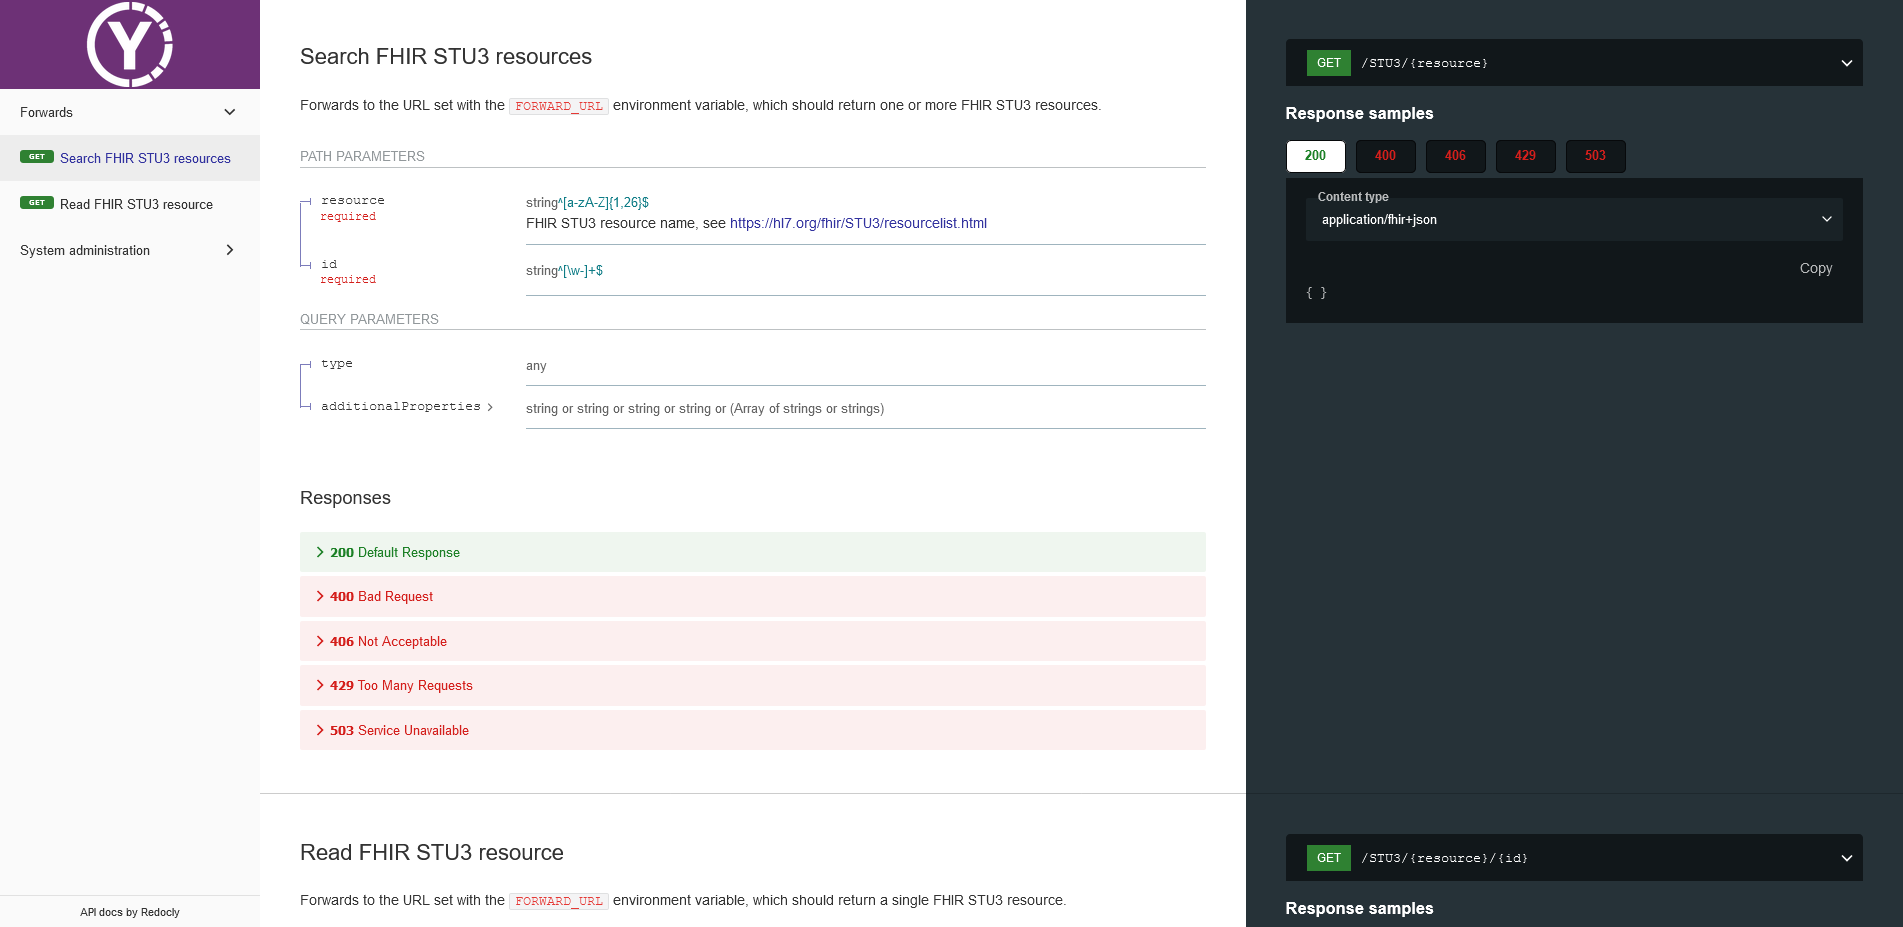
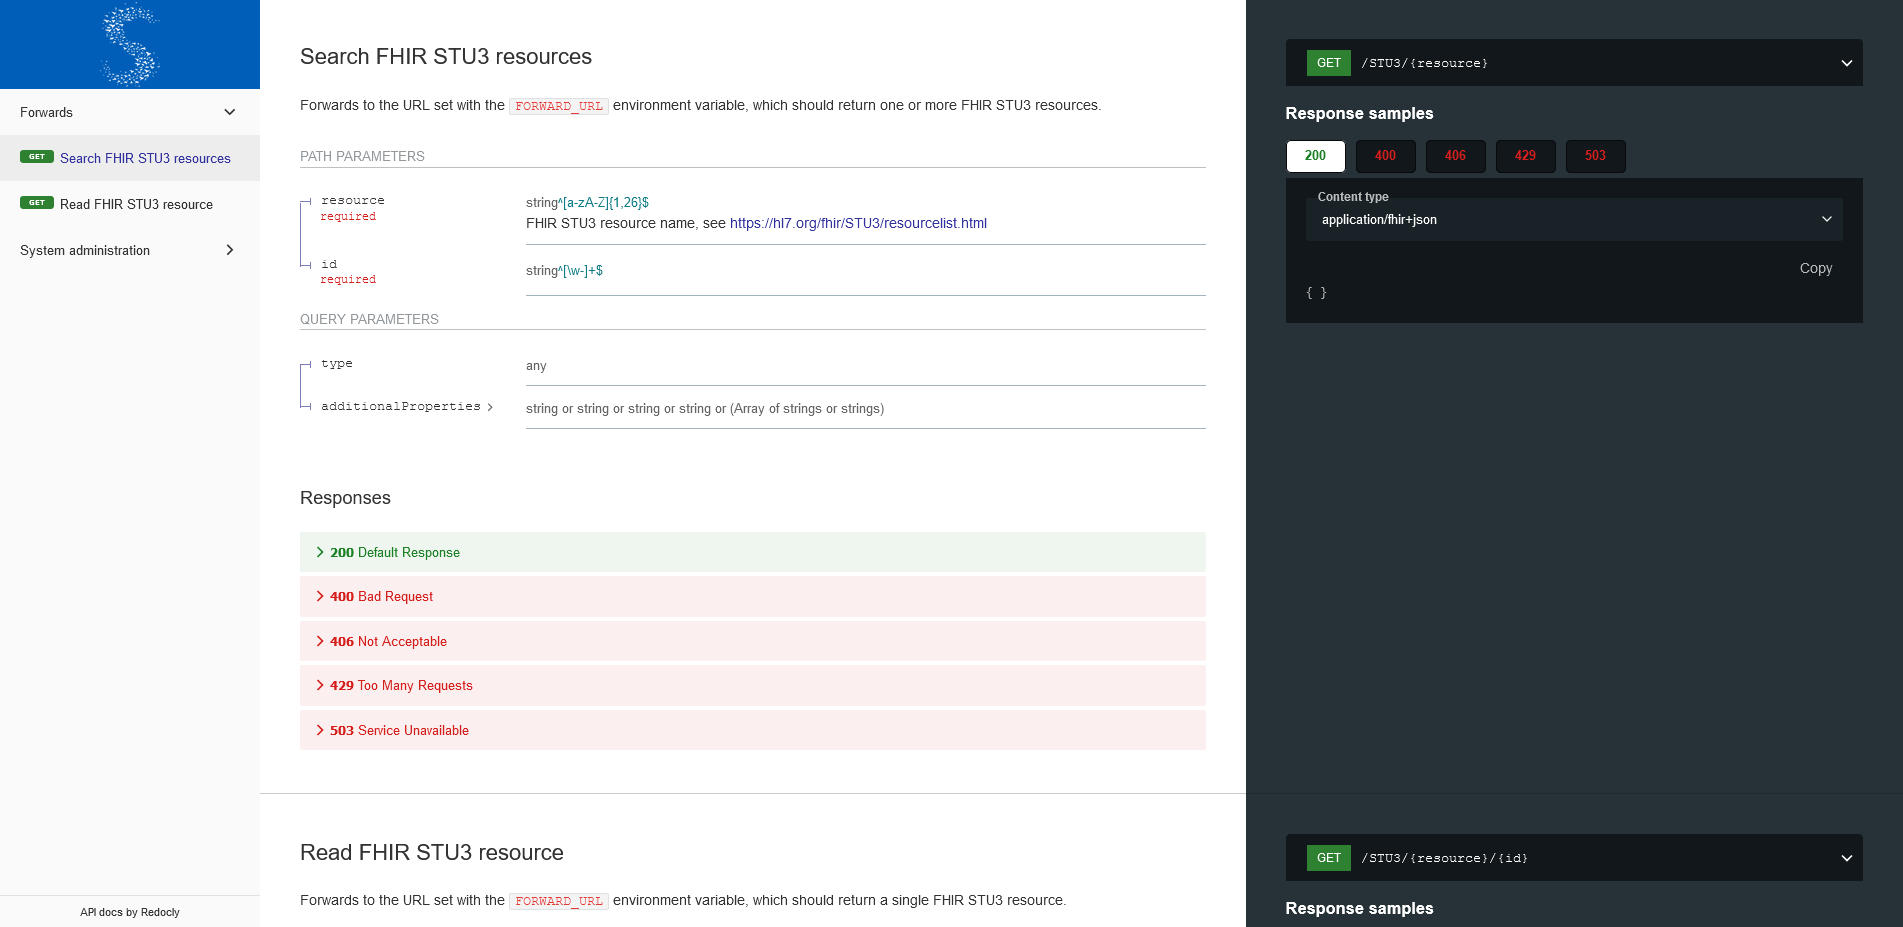
chore: replace ydh nhsft branding and links with somerset nhsft (#1062)
* test: replace ydh and sft domains

* chore: replace ydh nhsft branding and links with somerset nhsft

Changed region(s): [[0.0, 0.0, 0.155, 0.1208]]

diff --git a/src/server.test.js b/src/server.test.js
@@ -87,15 +87,15 @@ const expResHeaders4xxErrors = {
 };
 
 describe("Server deployment", () => {
-	const invalidIssuerUri = "https://invalid-issuer.ydh.nhs.uk";
-	const validIssuerUri = "https://valid-issuer.ydh.nhs.uk";
+	const invalidIssuerUri = "https://invalid-issuer.somersetft.nhs.uk";
+	const validIssuerUri = "https://valid-issuer.somersetft.nhs.uk";
 	let mockJwksServerOne;
 	let mockJwksServerTwo;
 	let token;
 
 	beforeAll(() => {
 		Object.assign(process.env, {
-			FORWARD_URL: "http://unsecured-server.ydh.nhs.uk",
+			FORWARD_URL: "http://unsecured-server.somersetft.nhs.uk",
 		});
 
 		nock.disableNetConnect();
@@ -104,11 +104,11 @@ describe("Server deployment", () => {
 		nock(validIssuerUri)
 			.get("/.well-known/openid-configuration")
 			.reply(200, {
-				jwks_uri: "https://valid-issuer.sft.nhs.uk/jwks",
+				jwks_uri: "https://valid-issuer.somersetft.nhs.uk/jwks",
 			})
 			.persist();
 		mockJwksServerOne = createJWKSMock(
-			"https://valid-issuer.sft.nhs.uk",
+			"https://valid-issuer.somersetft.nhs.uk",
 			"/jwks"
 		);
 		mockJwksServerOne.start();
@@ -122,17 +122,17 @@ describe("Server deployment", () => {
 		nock(invalidIssuerUri)
 			.get("/.well-known/openid-configuration")
 			.reply(200, {
-				jwks_uri: "https://invalid-issuer.sft.nhs.uk/jwks",
+				jwks_uri: "https://invalid-issuer.somersetft.nhs.uk/jwks",
 			})
 			.persist();
 		mockJwksServerTwo = createJWKSMock(
-			"https://invalid-issuer.sft.nhs.uk",
+			"https://invalid-issuer.somersetft.nhs.uk",
 			"/jwks"
 		);
 		mockJwksServerTwo.start();
 
 		// Create FHIR endpoints
-		nock("http://unsecured-server.ydh.nhs.uk")
+		nock("http://unsecured-server.somersetft.nhs.uk")
 			.defaultReplyHeaders({
 				"Access-Control-Allow-Methods":
 					"GET, POST, PUT, DELETE, OPTIONS",
@@ -209,7 +209,7 @@ describe("Server deployment", () => {
 				},
 				request: {
 					headers: {
-						origin: "https://notreal.ydh.nhs.uk",
+						origin: "https://notreal.somersetft.nhs.uk",
 					},
 				},
 				expected: {
@@ -218,17 +218,17 @@ describe("Server deployment", () => {
 							basic: {
 								...expResHeaders,
 								"access-control-allow-origin":
-									"https://notreal.ydh.nhs.uk",
+									"https://notreal.somersetft.nhs.uk",
 							},
 							json: {
 								...expResHeadersJson,
 								"access-control-allow-origin":
-									"https://notreal.ydh.nhs.uk",
+									"https://notreal.somersetft.nhs.uk",
 							},
 							text: {
 								...expResHeadersText,
 								"access-control-allow-origin":
-									"https://notreal.ydh.nhs.uk",
+									"https://notreal.somersetft.nhs.uk",
 							},
 						},
 					},
@@ -237,11 +237,11 @@ describe("Server deployment", () => {
 			{
 				testName: "CORS enabled and set to string",
 				envVariables: {
-					CORS_ORIGIN: "https://notreal.ydh.nhs.uk",
+					CORS_ORIGIN: "https://notreal.somersetft.nhs.uk",
 				},
 				request: {
 					headers: {
-						origin: "https://notreal.ydh.nhs.uk",
+						origin: "https://notreal.somersetft.nhs.uk",
 					},
 				},
 				expected: {
@@ -250,17 +250,17 @@ describe("Server deployment", () => {
 							basic: {
 								...expResHeaders,
 								"access-control-allow-origin":
-									"https://notreal.ydh.nhs.uk",
+									"https://notreal.somersetft.nhs.uk",
 							},
 							json: {
 								...expResHeadersJson,
 								"access-control-allow-origin":
-									"https://notreal.ydh.nhs.uk",
+									"https://notreal.somersetft.nhs.uk",
 							},
 							text: {
 								...expResHeadersText,
 								"access-control-allow-origin":
-									"https://notreal.ydh.nhs.uk",
+									"https://notreal.somersetft.nhs.uk",
 							},
 						},
 					},
@@ -270,13 +270,13 @@ describe("Server deployment", () => {
 				testName: "CORS enabled and set to array of strings",
 				envVariables: {
 					CORS_ORIGIN: [
-						"https://notreal.ydh.nhs.uk",
+						"https://notreal.somersetft.nhs.uk",
 						"https://notreal.sft.nhs.uk",
 					],
 				},
 				request: {
 					headers: {
-						origin: "https://notreal.ydh.nhs.uk",
+						origin: "https://notreal.somersetft.nhs.uk",
 					},
 				},
 				expected: {
@@ -285,17 +285,17 @@ describe("Server deployment", () => {
 							basic: {
 								...expResHeaders,
 								"access-control-allow-origin":
-									"https://notreal.ydh.nhs.uk",
+									"https://notreal.somersetft.nhs.uk",
 							},
 							json: {
 								...expResHeadersJson,
 								"access-control-allow-origin":
-									"https://notreal.ydh.nhs.uk",
+									"https://notreal.somersetft.nhs.uk",
 							},
 							text: {
 								...expResHeadersText,
 								"access-control-allow-origin":
-									"https://notreal.ydh.nhs.uk",
+									"https://notreal.somersetft.nhs.uk",
 							},
 						},
 					},
@@ -308,7 +308,7 @@ describe("Server deployment", () => {
 				},
 				request: {
 					headers: {
-						origin: "https://notreal.ydh.nhs.uk",
+						origin: "https://notreal.somersetft.nhs.uk",
 					},
 				},
 				expected: {

diff --git a/src/config/config.test.js b/src/config/config.test.js
@@ -192,7 +192,7 @@ describe("Configuration", () => {
 		const AUTH_BEARER_TOKEN_ARRAY =
 			'[{"service": "test", "value": "testtoken"}]';
 		const JWT_JWKS_ARRAY =
-			'[{"issuerDomain": "https://not-real-issuer.ydh.nhs.uk/auth/realms/SIDER", "allowedAudiences": "ydh", "allowedAlgorithms": ["RS256"], "maxAge": 90000}]';
+			'[{"issuerDomain": "https://not-real-issuer.somersetft.nhs.uk/auth/realms/SIDER", "allowedAudiences": "ydh", "allowedAlgorithms": ["RS256"], "maxAge": 90000}]';
 
 		Object.assign(process.env, {
 			HOST,
@@ -343,22 +343,22 @@ describe("Configuration", () => {
 			testName: "CORS origin set to comma-delimited string value",
 			envVariables: {
 				CORS_ORIGIN:
-					"https://test1.ydh.nhs.uk, https://test2.ydh.nhs.uk",
+					"https://test1.somersetft.nhs.uk, https://test2.somersetft.nhs.uk",
 			},
 			expected: {
 				origin: expect.arrayContaining([
-					"https://test1.ydh.nhs.uk",
-					"https://test2.ydh.nhs.uk",
+					"https://test1.somersetft.nhs.uk",
+					"https://test2.somersetft.nhs.uk",
 				]),
 			},
 		},
 		{
 			testName: "CORS origin set to string value",
 			envVariables: {
-				CORS_ORIGIN: "https://ydh.nhs.uk",
+				CORS_ORIGIN: "https://somersetft.nhs.uk",
 			},
 			expected: {
-				origin: "https://ydh.nhs.uk",
+				origin: "https://somersetft.nhs.uk",
 			},
 		},
 	])(

diff --git a/src/config/index.js b/src/config/index.js
@@ -235,7 +235,7 @@ async function getConfig() {
 				info: {
 					title: "FHIR API Authentication Service",
 					description:
-						'<a href="https://yeovilhospital.co.uk/">Yeovil District Hospital NHSFT</a>\'s FHIR API authentication service, a Node.js application using the <a href="https://fastify.io/">Fastify web framework</a>.',
+						'<a href="https://somersetft.nhs.uk/yeovilhospital/">Yeovil Hospital</a>\'s FHIR API authentication service, a Node.js application using the <a href="https://fastify.io/">Fastify web framework</a>.',
 					contact: {
 						name: "Author",
 						email: "frazer.smith@somersetft.nhs.uk",
@@ -247,10 +247,9 @@ async function getConfig() {
 					version,
 					// Redoc specific extension to support loading image in docs
 					"x-logo": {
-						url: "/public/images/ydh-y-logo-transparent-background-wide-canvas.png",
-						backgroundColor: "#6D3176",
-						altText:
-							"Yeovil District Hospital NHS Foundation Trust logo",
+						url: "/public/images/sft-s-logo-transparent-background-wide-canvas.png",
+						backgroundColor: "#005EB8",
+						altText: "Somerset NHS Foundation Trust Logo",
 					},
 				},
 				// Components object populated by shared schemas at launch

diff --git a/src/routes/docs/index.html b/src/routes/docs/index.html
@@ -4,7 +4,7 @@
 		<meta charset="utf-8" />
 		<meta
 			name="description"
-			content="Reference documentation and OpenAPI definitions for Yeovil District Hospital NHSFT's FHIR API authentication service." />
+			content="Reference documentation and OpenAPI definitions for Yeovil Hospital's FHIR API authentication service." />
 		<meta name="author" content="Frazer Smith, Solutions Development" />
 		<meta name="viewport" content="width=device-width, initial-scale=1" />
 

diff --git a/README.md b/README.md
@@ -1,21 +1,21 @@
-<a href="https://yeovilhospital.co.uk/">
-	<img alttext="Yeovil District Hospital logo" src="https://github.com/Fdawgs/ydh-logos/raw/HEAD/images/ydh-full-logo-transparent-background.svg" width="480" />
+<a href="https://somersetft.nhs.uk/yeovilhospital/">
+	<img alttext="Somerset NHSFT logo" src="https://github.com/TauntonandSomersetNHSTrust/sft-logos/raw/HEAD/images/sft-nhsft-logo-left-aligned-transparent-background.png" width="480" />
 </a>
 
-# Yeovil District Hospital NHS Foundation Trust - FHIR API Authentication Service
+# Yeovil Hospital - FHIR API Authentication Service
 
 [![GitHub Release](https://img.shields.io/github/release/Fdawgs/ydh-fhir-authentication-service.svg)](https://github.com/Fdawgs/ydh-fhir-authentication-service/releases/latest/)
 ![Build Status](https://github.com/Fdawgs/ydh-fhir-authentication-service/workflows/CI/badge.svg?branch=main)
 [![Coverage Status](https://coveralls.io/repos/github/Fdawgs/ydh-fhir-authentication-service/badge.svg?branch=main)](https://coveralls.io/github/Fdawgs/ydh-fhir-authentication-service?branch=main)
 [![code style: prettier](https://img.shields.io/badge/code_style-prettier-ff69b4.svg?style=flat)](https://github.com/prettier/prettier)
 
-> Yeovil District Hospital NHSFT's FHIR API authentication service
+> Yeovil Hospital's FHIR API authentication service
 
 ## Overview
 
-This is [Yeovil District Hospital NHSFT](https://yeovilhospital.co.uk/)'s FHIR API authentication service, a Node.js application using the [Fastify](https://fastify.io/) web framework.
+This is [Yeovil Hospital](https://somersetft.nhs.uk/yeovilhospital/)'s FHIR API authentication service, a Node.js application using the [Fastify](https://fastify.io/) web framework.
 
-Yeovil District Hospital NHSFT uses [Mirth Connect](https://github.com/nextgenhealthcare/connect) for its integration engines that, whilst a versatile system, does not provide the following:
+Yeovil Hospital uses [Mirth Connect](https://github.com/nextgenhealthcare/connect) for its integration engines that, whilst a versatile system, does not provide the following:
 
 -   SSL/TLS support out of the box
 -   Easily configurable authentication on HTTP/FHIR listeners
